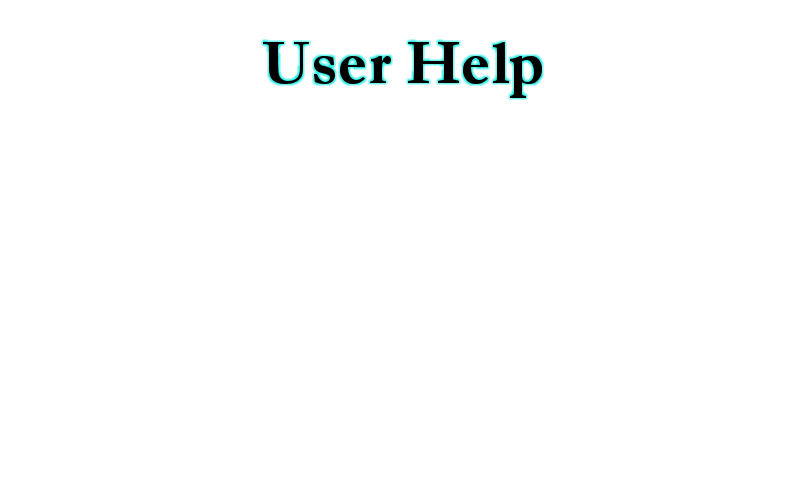
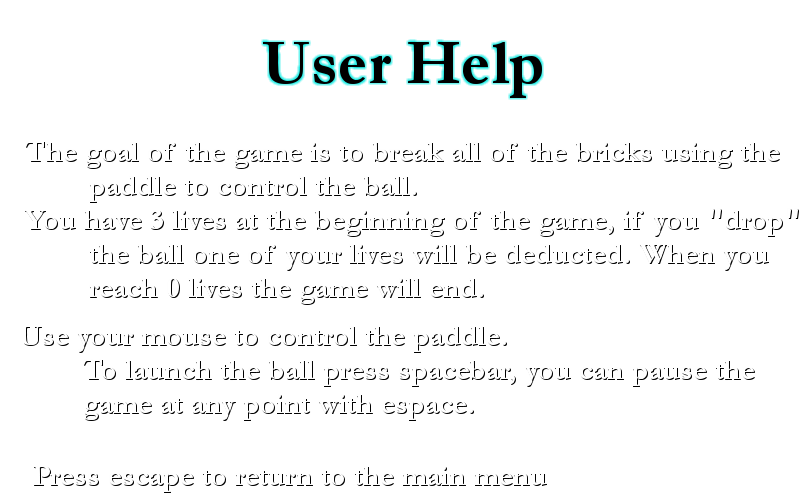
Help viimeistelty

diff --git a/Breakout/src/main/java/util/GameKeyListener.java b/Breakout/src/main/java/util/GameKeyListener.java
@@ -39,6 +39,7 @@ public class GameKeyListener implements KeyListener {
 
     @Override
     public void keyPressed(KeyEvent e) {
+        // MENU OR GAME OVER
         if (gsm.getState() == GameStates.MENUSTATE || gsm.getState() == GameStates.GAME_OVER) {
             // Change menu to the correct one
             if(gsm.getState() == GameStates.MENUSTATE) {
@@ -58,14 +59,16 @@ public class GameKeyListener implements KeyListener {
                 int choice = currentMenu.getCurrentChoice();
                 currentMenu.start(choice);
             }
-        }
+        } // END OF MENU OR GAME OVER
 
+        // PAUSE
         if (gsm.getState() == GameStates.PAUSE) {
             if (e.getKeyCode() == KeyEvent.VK_SPACE) {
                 gsm.setState(GameStates.PLAYSTATE);
             }
         }
 
+        // PLAYSTATE
         if (gsm.getState() == GameStates.PLAYSTATE) {
             if (e.getKeyCode() == KeyEvent.VK_ESCAPE) {
                 gsm.setState(GameStates.PAUSE);
@@ -76,11 +79,19 @@ public class GameKeyListener implements KeyListener {
                 ball.launchBall();
                 paddle.dockPaddle();
             }
-        }
+        } // END OF PLAYSTATE
         
+        // LEVEL CLEARED
         if(gsm.getState() == GameStates.LEVEL_CLEARED) {
             if(e.getKeyCode() == KeyEvent.VK_ENTER) {
                 gsm.setState(GameStates.PLAYSTATE);
+            }
+        }
+        
+        // HELP
+        if(gsm.getState() == GameStates.HELP) {
+            if(e.getKeyCode() == KeyEvent.VK_ESCAPE) {
+                gsm.setState(GameStates.MENUSTATE);
             }
         }
 

diff --git a/Breakout/src/main/java/ui/CanvasManager.java b/Breakout/src/main/java/ui/CanvasManager.java
@@ -25,7 +25,7 @@ public class CanvasManager extends JPanel implements Updatable {
 
     private final GameStateManager gsm;
     private BackgroundCanvas bg;
-    private Map<GameStates, Canvas> canvases;
+    private final Map<GameStates, Canvas> canvases;
 
     /**
      * Construct canvas manager.
